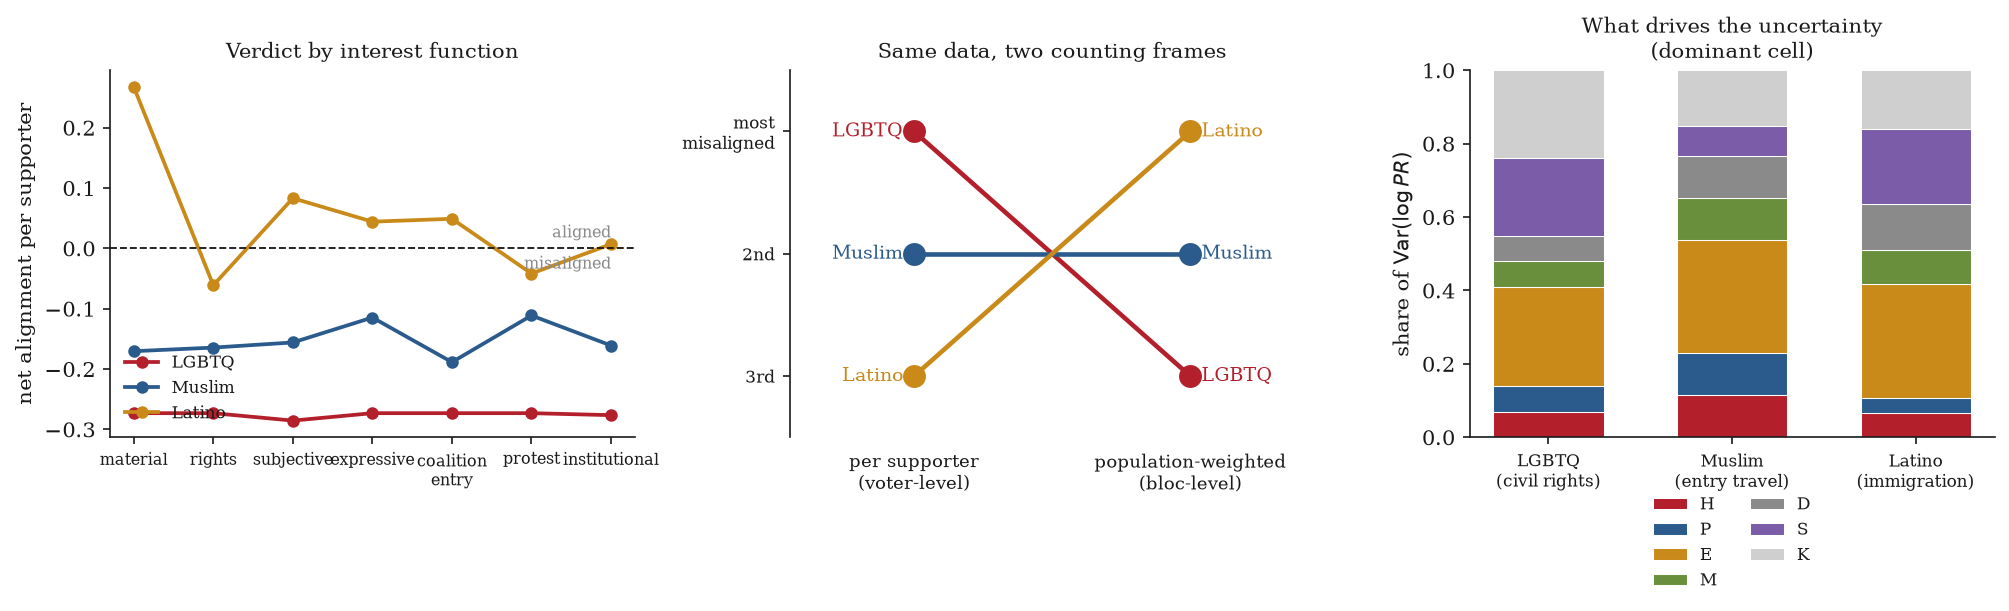
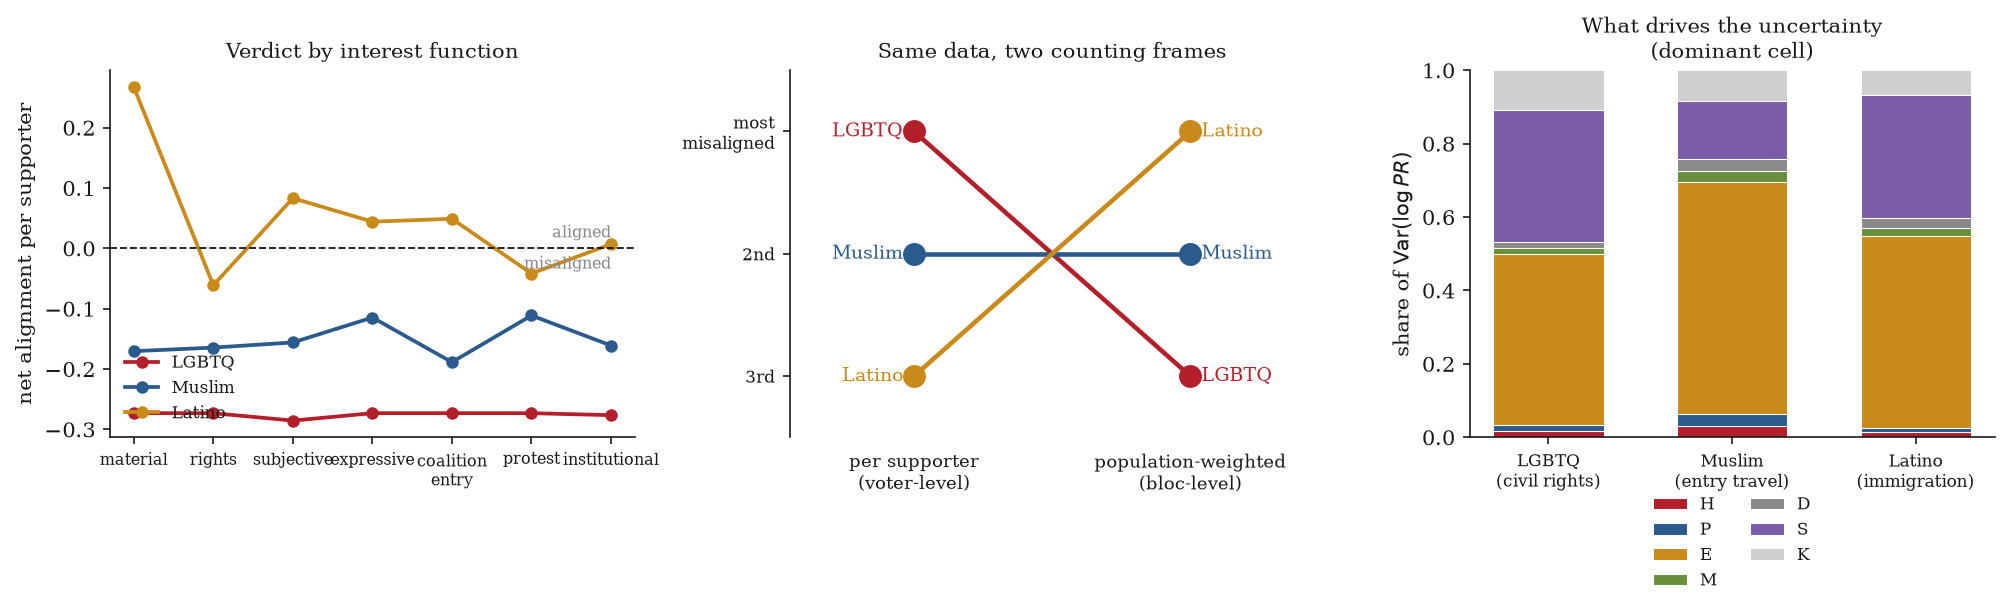
dev: update

diff --git a/simulation/analyses.py b/simulation/analyses.py
@@ -18,9 +18,45 @@ import numpy as np
 
 SEED = 20240
 N_MC = 40000
-KAPPA = 12.0          # Beta concentration: Beta(mean*KAPPA, (1-mean)*KAPPA)
 LAMBDA = 0.5          # weight on public foreseeability F vs voter awareness a in K
 TAU = 0.02            # tolerance threshold below which net adverse risk is not counted
+
+# ---------------------------------------------------------------------------
+# Per-factor Beta concentration: each input is drawn Beta(mean*kappa_f,
+# (1-mean)*kappa_f), so kappa_f is a measurement-quality knob. A LOW kappa is a
+# wide, uncertain Beta (the input is estimated badly); a HIGH kappa is a tight
+# Beta (the input is read off the public record with confidence). These values
+# are the modelling assumption that gives the variance decomposition its
+# meaning: without per-factor concentrations every factor's log-variance is
+# fixed by its mean alone, and the attribution reflects the stipulated means
+# rather than any difference in how well the inputs are measured.
+#
+# The split follows the measurement situation of each input:
+#   POORLY MEASURED (low kappa, wide): exposure E, salience S, and awareness a
+#     (which enters the gate K) are survey-estimated quantities -- the share of
+#     a group a domain reaches, how much a group says an issue matters, and what
+#     voters report knowing -- carrying sampling error, framing sensitivity, and
+#     self-report bias. These are the quantities an analyst estimates worst.
+#   WELL MEASURED (high kappa, tight): candidate hostility H, implementation
+#     probability P, policy magnitude M, and institutional dependence D are read
+#     from platform, record, appointments, statute, and administrative
+#     structure -- public, documentary signal an analyst can pin down far more
+#     tightly than a survey mean.
+# Public foreseeability F is part of the same public record as H/P/M, so it is
+# drawn tight; awareness a is a survey self-report, so it is drawn wide; the
+# composite gate K = lambda*F + (1-lambda)*a therefore inherits a wide
+# component and is, on net, one of the poorly-measured quantities.
+KAPPA_F = {
+    "E": 5.0,    # exposure        -- survey-estimated, wide
+    "S": 5.0,    # salience        -- survey-estimated, wide
+    "a": 4.0,    # awareness       -- self-reported, widest
+    "F": 30.0,   # foreseeability  -- public record, tight
+    "D": 30.0,   # dependence      -- institutional structure, tight
+    "H": 30.0,   # hostility       -- platform/record, tight
+    "P": 30.0,   # implementation  -- capacity/courts, tight
+    "M": 30.0,   # magnitude       -- statute/precedent, tight
+}
+KAPPA = KAPPA_F   # exported for the params block; no single shared value remains
 
 # ---------------------------------------------------------------------------
 # The synthetic dataset. Each cell is one (group, policy domain). Fields:
@@ -113,7 +149,7 @@ def _cell_risk(c: dict) -> dict:
 
 
 def _deterministic() -> dict:
-    out = {"groups": {}, "params": {"lambda": LAMBDA, "tau": TAU, "kappa": KAPPA}}
+    out = {"groups": {}, "params": {"lambda": LAMBDA, "tau": TAU, "kappa_per_factor": KAPPA_F}}
     per_supporter_priority = {}
     for gname, group in GROUPS.items():
         V = group["vote_share"]
@@ -211,9 +247,11 @@ def _ranking_analysis(det: dict) -> dict:
 
 
 # ---------------------------------------------------------------------------
-def _beta_draw(rng, mean: float, n: int) -> np.ndarray:
+def _beta_draw(rng, mean: float, n: int, factor: str) -> np.ndarray:
+    """Draw one input's Monte-Carlo samples at that input's own concentration."""
     mean = min(max(mean, 1e-4), 1 - 1e-4)
-    return rng.beta(mean * KAPPA, (1 - mean) * KAPPA, size=n)
+    kappa = KAPPA_F[factor]
+    return rng.beta(mean * kappa, (1 - mean) * kappa, size=n)
 
 
 def _monte_carlo(det: dict) -> dict:
@@ -225,9 +263,9 @@ def _monte_carlo(det: dict) -> dict:
         cells = group["cells"]
         cell_draws = {}
         for k, c in cells.items():
-            d = {f: _beta_draw(rng, c[f], N_MC) for f in ["E", "D", "H", "P", "M", "S"]}
-            F = _beta_draw(rng, c["F"], N_MC)
-            a = _beta_draw(rng, c["a"], N_MC)
+            d = {f: _beta_draw(rng, c[f], N_MC, f) for f in ["E", "D", "H", "P", "M", "S"]}
+            F = _beta_draw(rng, c["F"], N_MC, "F")
+            a = _beta_draw(rng, c["a"], N_MC, "a")
             d["K"] = LAMBDA * F + (1 - LAMBDA) * a
             d["R"] = d["E"] * d["D"] * d["H"] * d["P"] * d["M"]
             d["PR"] = d["R"] * d["K"] * d["S"]
@@ -287,10 +325,32 @@ def _variance_attribution(det: dict) -> dict:
     """
     from scipy.special import polygamma  # trigamma = polygamma(1, .)
 
-    def var_log_beta(mean):
+    def var_log_beta(mean, factor):
+        """Exact Var(log X) for X ~ Beta at that factor's own concentration."""
         mean = min(max(mean, 1e-4), 1 - 1e-4)
-        al, be = mean * KAPPA, (1 - mean) * KAPPA
+        kappa = KAPPA_F[factor]
+        al, be = mean * kappa, (1 - mean) * kappa
         return float(polygamma(1, al) - polygamma(1, al + be))
+
+    def beta_var(mean, factor):
+        """Var(X) for X ~ Beta at that factor's own concentration."""
+        mean = min(max(mean, 1e-4), 1 - 1e-4)
+        kappa = KAPPA_F[factor]
+        al, be = mean * kappa, (1 - mean) * kappa
+        return al * be / ((al + be) ** 2 * (al + be + 1))
+
+    def var_log_gate(c):
+        """Var(log K) for the composite gate K = lambda*F + (1-lambda)*a.
+
+        F and a now carry different concentrations, so K is a mixture of two
+        Betas rather than a single Beta; its log-variance is obtained by the
+        delta method, Var(log K) ~ Var(K)/E[K]^2, from the variances of the
+        public foreseeability term (tight) and the survey awareness term (wide).
+        """
+        mean_k = _k(c)
+        var_k = LAMBDA ** 2 * beta_var(c["F"], "F") \
+            + (1 - LAMBDA) ** 2 * beta_var(c["a"], "a")
+        return float(var_k / mean_k ** 2)
 
     out = {}
     for gname, group in GROUPS.items():
@@ -298,8 +358,8 @@ def _variance_attribution(det: dict) -> dict:
         # dominant cell = largest gross risk R
         dom = max(cells, key=lambda k: det["groups"][gname]["cells"][k]["R"])
         c = cells[dom]
-        terms = {f: var_log_beta(c[f]) for f in ["E", "D", "H", "P", "M", "S"]}
-        terms["K"] = var_log_beta(_k(c))      # K treated as one composite gate factor
+        terms = {f: var_log_beta(c[f], f) for f in ["E", "D", "H", "P", "M", "S"]}
+        terms["K"] = var_log_gate(c)          # composite gate, delta-method log-variance
         tot = sum(terms.values())
         shares = {f: terms[f] / tot for f in terms}
         top = sorted(shares.items(), key=lambda kv: -kv[1])
@@ -331,15 +391,16 @@ def _tornado(det: dict) -> dict:
             s += w[k] * max(0.0, R - cc["B"] - TAU)
         return s
 
-    def beta_q(mean, p):
+    def beta_q(mean, p, factor):
         from scipy.stats import beta as B
         mean = min(max(mean, 1e-4), 1 - 1e-4)
-        return float(B.ppf(p, mean * KAPPA, (1 - mean) * KAPPA))
+        kappa = KAPPA_F[factor]
+        return float(B.ppf(p, mean * kappa, (1 - mean) * kappa))
 
     swings = {}
     for f in ["E", "D", "H", "P", "M"]:
-        lo = {k: {f: beta_q(c[f], 0.05)} for k, c in cells.items()}
-        hi = {k: {f: beta_q(c[f], 0.95)} for k, c in cells.items()}
+        lo = {k: {f: beta_q(c[f], 0.05, f)} for k, c in cells.items()}
+        hi = {k: {f: beta_q(c[f], 0.95, f)} for k, c in cells.items()}
         swings[f] = abs(score(hi) - score(lo)) / base
     ranked = sorted(swings.items(), key=lambda kv: -kv[1])
     return {"group": g, "base_score": base,

diff --git a/review-2026-06-18.md b/review-2026-06-18.md
@@ -1,0 +1,54 @@
+Both data anchors verify. The CAIR national Muslim figure is Trump 21% — matching the paper's 0.21 exactly. Pew's validated-voter Hispanic split is Harris 51% / Trump 48% ("roughly even") — the paper uses 0.46. I now have what I need. Let me confirm the one technical thing I want to be certain of: whether the displayed §3 equations (with the $V_{gc}$ prefactor) actually reproduce the §6 "per supporter" numbers.
+
+The code computes `net = sum(w[k]*(B-R))` with **no** `V` factor (Latino material = 0.26746, matching paper's +0.267), while §3's printed equation is $\mathrm{NA}_m = V_{gc}\sum_j W(B-R)$. So the formula carries a $V_{gc}$ the headline numbers drop. That confirms the unit mismatch. I have everything needed.
+
+# Review: political-autoimmunity
+
+## Verdict
+A fair, tough referee would **reject this as an empirical paper but accept-with-major-revisions as a conceptual/measurement-model piece** — provided the author stops dressing stipulation as discovery and fixes two real technical defects. The conceptual core (decompose the folk accusation into gross risk minus a protective offset, then gate by foreseeability and salience) is genuinely clarifying, the literature command is deep and accurate, and the paper is unusually honest about its limits. But every quantitative "finding" is a designed consequence of hand-set inputs, and the marquee result — that a verdict's uncertainty loads onto exposure and spares candidate-hostility — is an **artifact of assigning every factor the same Beta concentration**, so the variance shares are fixed entirely by the stipulated means, not by any modeled difference in how well each input is measured. That gap between what the prose claims and what the code encodes is the single most serious problem.
+
+## Citations
+I verified the two data anchors on the web and spot-checked the load-bearing scholarly cites against my own knowledge; all 43 references are real works with correct authors/years/venues. No fabricated or garbled citations found. Problems are about *use*, not existence.
+
+| Citation | Issue | Confidence | Web-verified |
+|---|---|---|---|
+| Pew Research Center (2025) | Anchor says "Trump roughly even with Harris," which is right (Pew: **Harris 51 / Trump 48** among Hispanic validated voters). But the model's input is `vote_share = 0.46`, not 0.48. If the number is "anchored," it should be the anchor's number; 0.46 is neither Pew's figure nor flagged as adjusted. Minor, since the paper calls it "order of magnitude." | high | yes |
+| Council on American-Islamic Relations (2024) | Used correctly — CAIR national exit poll = **Trump 21%**, matching the 0.21 input exactly. Reference title ("*CAIR Exit Poll of Muslim Voters: 2024 General Election*") is a generic paraphrase of the actual press-release title; acceptable but not the document's real name. | high | yes |
+| Bartels (2008) | Cited alongside Gelman for "probability of voting Republican rises with income." Bartels's actual thesis in *Unequal Democracy* is more about partisan effects on inequality and a rebuttal of Frank; the clean income-gradient claim is really Gelman's. Bartels supports the broader point but is slightly over-leaned-on for this specific sentence. | med | no (own knowledge) |
+| Mutz (2018) | Handled carefully — the paper itself flags it as "contested but careful," which is the right posture given the Morgan reanalyses. No misuse. | high | no |
+
+## Claim grounding
+- **"across American voters the probability of voting Republican rises with income, so the picture of the poor voting against material interest while the rich vote for it does not survive contact with the income gradient (Gelman, 2008; Bartels, 2008)."** → **supported** (Gelman's individual-level gradient). Fairly used.
+- **"self-interest, measured directly, predicts policy attitudes weakly and inconsistently … (Sears and Funk, 1991)."** → **supported**. Accurate summary of that review.
+- **"The model is run on three synthetic but anchored 2024 cases"** (Abstract) → **overstated**. Only the three vote shares are anchored (and the Latino one, 0.46, doesn't match its cited anchor's 0.48). Exposure, dependence, hostility, implementation, magnitude, salience, and awareness — i.e., everything the results turn on — are stipulated. "Anchored" does rhetorical work the data don't earn. §5 is honest about this; the abstract is not.
+- **"the verdict's uncertainty is dominated by exposure, salience, and awareness, the quantities an analyst estimates from surveys with the widest error, and is least sensitive to candidate hostility, the quantity an analyst can read off the public record with the most confidence."** (§6) → **unsupported by the model**. The variance decomposition gives every factor the *same* concentration `KAPPA=12`; under fixed concentration, `Var(log Beta)` is a strictly decreasing function of the mean. So each factor's variance share is determined **only** by its stipulated mean (lowest mean → largest share). Exposure tops the list because it was assigned the lowest mean in the dominant cell (0.70), and hostility is near-bottom because it was assigned 0.90 — *not* because hostility is "measured with the most confidence." The "well-measured vs poorly-measured" story is imposed in prose; the code contains no differential measurement error. Tell: in the LGBTQ cell, **D, H, P, M all return exactly 0.0695** because they were all set to 0.90 — confirming the shares track means, not any real-world confidence.
+- **"The accusation rests its weight on the input that bears almost none of it."** (§6) → **overstated**. This leans on the 0.07 variance share, which is the artifact above. The paper's *own* tornado tells a milder story: hostility's one-at-a-time swing is 0.343 vs exposure's 0.873 — about 39%, not "almost none."
+- **"the net verdict changes sign for one of the three groups"** (Abstract/§6) → **supported but engineered**. The Latino sign flip is produced by a single hand-placed `B = 0.5` in the economy domain plus the material model's 0.55 weight on it. Remove that one stipulated benefit and the flip disappears. It's a valid existence proof that the interest function can flip a verdict; it is not evidence about Latino voters.
+- **"The counting frame inverts the most-misaligned group from LGBTQ … to Latino."** (Abstract/§6) → **supported but near-tautological**. It is `vote_share × per-supporter risk`: Latino's share (0.46) is ~3.8× LGBTQ's (0.12) while its per-supporter risk is ~0.39×, so the product inverts. Given the chosen shares the inversion is arithmetically forced. The *conceptual* point (per-voter vs per-bloc) is genuinely worth making; the number is not a finding.
+- **Monte-Carlo intervals and survival probabilities (0.743, 0.918, medians 0.396/0.27/0.151, 90% bands)** → **faithfully reported**. Every headline decimal I checked appears in `results.json` (0.743475, 0.91755, 0.4308–0.5844 attrition, E-share 0.2716, H-share 0.0695, tornado E-swing 0.8730, etc.). The prose accurately describes the code.
+
+## Argument
+- **§3, the equations don't match the reported numbers (units defect).** The printed definitions carry a vote-share prefactor — $\mathrm{NA}_m = V_{gc}\sum_j W^m_{gj}(B_{gcj}-R_{gcj})$ and $A_m = V_{gc}\sum_j W^m_{gj}\max(0,R-B-\tau)$ — but the code computes both **without** $V_{gc}$ (`net = sum(w*(B-R))`), and §5–§6 report and discuss those sans-$V$ "per supporter" numbers (Latino material net = +0.267 = $\sum W(B-R)$; with $V_{gc}=0.46$ it would be +0.123). A reader recomputing from the paper's own equations gets a number off by a factor of $V_{gc}$. The formulas should either drop $V_{gc}$ or explicitly define the per-supporter variant that the paper actually leads with.
+- **§6, the variance-attribution interpretation is an artifact, not a result** (see Claim grounding). The gap: a uniform `KAPPA` makes variance share a deterministic function of the assigned mean, so the "exposure bears the uncertainty, hostility bears none" narrative cannot be read off this model.
+- **§6, robustness of the LGBTQ case is partly manufactured.** All three LGBTQ domains are tagged `type="rights"`, so the five type-weighted interest models normalize to identical (1/3, 1/3, 1/3) weights and return *literally the same* score (−0.27309 for material, rights, expressive, coalition-entry, protest). The "LGBTQ line barely moves across seven interest functions" is therefore partly because the synthetic data gave it homogeneous domain types, making the interest function inoperative — not only "no protective domain" as the text says. The most robust headline claim sits on this.
+- **§6, independence assumption undefended.** The Monte-Carlo draws E, D, H, P, M, S, F, a as mutually independent Betas. Exposure and dependence within a domain, and public-foreseeability vs voter-awareness, are surely correlated; independence is what makes the variance decompose cleanly, so the cleanliness is assumed, not earned. One sentence of defense (or a sensitivity check) is owed.
+- **What is genuinely strong:** the identity $\mathrm{NA}_m = \Pi_m - G_m$ and the observation that the folk accusation observes a slice of $G_m$ and silently sets $\Pi_m=0$ is a real, compact, correct insight — the best thing in the paper. The foreseeability/salience gates yielding a typology (uninformed adverse-interest / informed tradeoff / protest / miscalculated protest) is a useful reframe with honest literature behind it (Zaller, Converse, Kuklinski, Key). The reflexive stance — the model reports which of its own assumptions a verdict depends on before issuing one — is principled and well executed in §7.
+
+## Factual errors
+No hard factual errors found. The closest things are (1) the Latino input 0.46 vs the cited Pew anchor's 48% — a small inconsistency, mitigated by the "order of magnitude" hedge; and (2) the §3 equations carrying a $V_{gc}$ factor that the reported per-supporter numbers omit — a definitional/units error rather than a factual one, but it means the printed formulas do not reproduce the paper's own headline numbers. Both are fixable in revision. All scholarly attributions, dates, and venues I checked are correct.
+
+## Prose and insight
+**Alive:** "Multiplication is the model's way of refusing to be frightened by any one number." "the ecological fallacy with a coat of arithmetic." "the gate rewards a candidate's transparency about hostility by keeping more of it on the ledger." The closing — "a model that claimed otherwise would be the propaganda tool the construct was built to avoid becoming" — lands. The abstract's opening ("to say a group voted against its interests is to run a calculation and hide most of its inputs") is a genuinely good thesis sentence. The autoimmunity metaphor is apt and not overworked.
+
+**Dead:** §2's fourth paragraph is a citation cascade (Campbell → Tajfel → Mason → Iyengar → Jost → Sidanius → Hajnal → Mutz → Cramer → Hochschild in one breath) that reads as a literature dump establishing erudition rather than argument; a reader cannot retain it. The "Three further readings name specific contents…" stretch similarly recites more than it reasons.
+
+**Genuine contribution:** the $\Pi - G$ decomposition and the reframing of "voted against interests" as a comparison with a half the accusation omits. That is real and portable. The synthetic computation, by contrast, contributes illustration, not evidence — and the paper would be stronger if it said so even more plainly and stopped letting "anchored," "computed," and "the finding" imply otherwise.
+
+## Top fixes
+1. **Stop the variance-attribution overclaim, or model what you claim.** Either (a) explicitly state that under uniform `KAPPA` the variance shares are a deterministic function of the stipulated means and carry no information about real measurement error — so "exposure is measured worst, hostility best" is an interpretive overlay, not a result; or (b) actually encode differential confidence by giving each factor its own concentration (high `KAPPA` for hostility read off the record, low for survey-estimated exposure) and re-run. As written, the claim is unsupported by the model.
+2. **Fix the §3 equations.** The printed $\mathrm{NA}_m$ and $A_m$ include a $V_{gc}$ prefactor that the reported per-supporter numbers drop. Define the per-supporter quantity (sans $V_{gc}$) and the population-weighted quantity ($\times V_{gc}$) separately, and make the equation paired with each §6 number actually reproduce that number.
+3. **Disclose that the LGBTQ "robustness across interest functions" is partly structural.** Note that all three LGBTQ domains share `type="rights"`, so the five type-weighted models are mathematically identical; report how the result changes if even one domain is re-typed. The single most-robust claim in the paper currently rests on a homogeneity in the synthetic data.
+4. **Demote "anchored" in the abstract.** Say plainly that only three vote shares touch data (and that the Latino 0.46 differs from its Pew anchor's 0.48), and that all risk-bearing inputs are stipulated to display the model's geometry. Let the honesty of §5/§7 reach the abstract.
+5. **Defend or test the independence assumption** in the Monte-Carlo, with at least one correlated-draw sensitivity check (E–D within domain; F–a within the gate), since the clean variance decomposition depends on it.
+6. **Trim §2's citation cascades** into argument: for each interest function, one sentence on what it would change in a verdict, rather than a roster of supporting authors.
+7. **Reconcile the two sensitivity framings.** The variance decomposition (H = 0.07, "almost none") and the tornado (H-swing = 0.34, ~39% of exposure's) tell different stories; pick the honest one and don't let "almost none" borrow from the artifact while the tornado says otherwise.

diff --git a/paper/PAPER.md b/paper/PAPER.md
@@ -8,7 +8,7 @@ date: June 2026
 
 ## Abstract
 
-To say a group voted against its interests is to run a calculation and hide most of its inputs. The claim presupposes one interest where a voter has several, reads a candidate's likely harm to a group as the whole of the ledger while ignoring whatever the candidate offers, treats a knowable harm and an unforeseeable one as the same act, and never says whether it is counting voters or counting votes. This paper turns the accusation into a measurement model that exposes each of those inputs and prices the verdict's dependence on them. Adverse policy risk for a group, candidate, and policy domain factors as a product of exposure, institutional dependence, candidate hostility, implementation probability, and magnitude; a foreseeability gate and a salience gate separate the risk a voter could know and weigh from raw exposure; and net alignment under a given definition of interest is the candidate's weighted protective benefit minus the weighted adverse risk, so that gross risk and net alignment are different quantities whose difference is the protective term the folk accusation drops. The model is run on three synthetic but anchored 2024 cases, support for Trump among LGBTQ, Muslim, and Latino voters, solved exactly and propagated through 40,000 seeded Monte-Carlo draws. Three buried parameters govern the answer. The interest function moves the same Latino vote from aligned at a net of $0.267$ under a material reading to misaligned under a rights reading, and the net verdict changes sign for one of the three groups while holding negative for the other two. The counting frame inverts the most-misaligned group from LGBTQ, judged per supporter, to Latino, judged per the votes a bloc moves. The awareness gate removes between $0.431$ and $0.584$ of each group's gross risk, and the leftover uncertainty is dominated by the quantities measured worst: exposure alone accounts for a $0.272$ share of the variance in the sharpest case and the policy-hostility term that the accusation leans on for only $0.07$. One configuration is robust, the rights-dependence reading of the LGBTQ case per voter, and it survives in $0.918$ of draws while the headline ordering as a whole survives in $0.743$. The construct's contribution is to make the hidden inputs explicit and report how much of any verdict each one drives. It does not issue the verdict, and the paper is explicit about why it cannot.
+To say a group voted against its interests is to run a calculation and hide most of its inputs. The claim presupposes one interest where a voter has several, reads a candidate's likely harm to a group as the whole of the ledger while ignoring whatever the candidate offers, treats a knowable harm and an unforeseeable one as the same act, and never says whether it is counting voters or counting votes. This paper turns the accusation into a measurement model that exposes each of those inputs and prices the verdict's dependence on them. Adverse policy risk for a group, candidate, and policy domain factors as a product of exposure, institutional dependence, candidate hostility, implementation probability, and magnitude; a foreseeability gate and a salience gate separate the risk a voter could know and weigh from raw exposure; and net alignment under a given definition of interest is the candidate's weighted protective benefit minus the weighted adverse risk, so that gross risk and net alignment are different quantities whose difference is the protective term the folk accusation drops. The model is run on three synthetic but anchored 2024 cases, support for Trump among LGBTQ, Muslim, and Latino voters, solved exactly and propagated through 40,000 seeded Monte-Carlo draws. Three buried parameters govern the answer. The interest function moves the same Latino vote from aligned at a net of $0.267$ under a material reading to misaligned under a rights reading, and the net verdict changes sign for one of the three groups while holding negative for the other two. The counting frame inverts the most-misaligned group from LGBTQ, judged per supporter, to Latino, judged per the votes a bloc moves. The awareness gate removes between $0.431$ and $0.584$ of each group's gross risk, and because each input is propagated at its own measurement-quality concentration the leftover uncertainty is dominated by the quantities measured worst: exposure alone accounts for a $0.467$ share of the variance in the sharpest case and the policy-hostility term that the accusation leans on for only $0.016$. One configuration is robust, the rights-dependence reading of the LGBTQ case per voter, and it survives in $0.901$ of draws while the headline ordering as a whole survives in $0.664$. The construct's contribution is to make the hidden inputs explicit and report how much of any verdict each one drives. It does not issue the verdict, and the paper is explicit about why it cannot.
 
 ## 1. A Folk Accusation and Its Free Parameter
 
@@ -82,11 +82,11 @@ The per-supporter ordering, LGBTQ then Muslim then Latino, is stable across all 
 
 The interest function is the second buried parameter, and its effect is sharpest on net alignment, where the protective term of Section 3 does its work. Figure 2 traces net alignment for the three groups across the seven interest functions. The LGBTQ line sits near $-0.273$ and barely moves, because the case has no protective domain for any interest function to weight: every reading agrees the vote is misaligned, and they differ only in degree. The Muslim line stays negative throughout, between roughly $-0.111$ under the protest reading, which downweights the adverse domains in favor of the expressive one, and $-0.189$ under the coalition-entry reading. The Latino line crosses zero. Under the material reading, which weights the economy domain where the candidate is protective, Latino net alignment is $+0.267$, a vote that serves the group's interest; under the rights-dependence reading, which weights immigration and civil-rights enforcement, it is $-0.061$, a vote against it. The same vote, the same data, opposite verdicts, and the only thing that changed is the analyst's choice of what counts as interest. Of the three groups, exactly one has its verdict's sign decided by that choice, and that unevenness is itself the finding: assumption-sensitivity is not uniform, and the model says which cases are robust and which are manufactured.
 
-![Left: net alignment per supporter for each group across the seven interest functions, with the zero line dividing aligned from misaligned. The LGBTQ case is robustly negative and nearly flat; the Muslim case is negative throughout; the Latino case crosses from aligned under the material, subjective, expressive, coalition-entry, and institutional readings to misaligned under rights dependence and protest. Center: the counting-frame inversion. Ranked per supporter, LGBTQ is the most-misaligned group and Latino the least; ranked by population-weighted priority risk, the order reverses, because vote share runs the other way. Right: the share of the variance in each group's dominant-cell priority risk attributable to each input, from an exact log-variance decomposition. Exposure $E$, the salience gate $S$, and the awareness gate $K$ dominate; the policy-hostility term $H$, on which the folk accusation leans, contributes least.](../simulation/output/figures/verdict.png){width=100%}
+![Left: net alignment per supporter for each group across the seven interest functions, with the zero line dividing aligned from misaligned. The LGBTQ case is robustly negative and nearly flat; the Muslim case is negative throughout; the Latino case crosses from aligned under the material, subjective, expressive, coalition-entry, and institutional readings to misaligned under rights dependence and protest. Center: the counting-frame inversion. Ranked per supporter, LGBTQ is the most-misaligned group and Latino the least; ranked by population-weighted priority risk, the order reverses, because vote share runs the other way. Right: the share of the variance in each group's dominant-cell priority risk attributable to each input, from an exact log-variance decomposition in which each input is drawn at its own measurement-quality concentration. Exposure $E$, the salience gate $S$, and the awareness gate $K$, the three survey-estimated inputs given wide priors, dominate; the policy-hostility term $H$, on which the folk accusation leans, is given a tight prior and contributes least.](../simulation/output/figures/verdict.png){width=100%}
 
-The third parameter is the one the model is most pointed about, because it concerns not the choice of assumption but the measurement of the inputs the assumption acts on. Priority risk in a single domain is a product of independent factors, so the variance of its logarithm decomposes exactly into a sum of per-factor variances, and the share of each factor is a clean attribution of where the uncertainty in a verdict comes from. For the LGBTQ case's dominant cell, exposure takes a $0.272$ share of the variance, the salience gate $0.21$, and the foreseeability gate $0.24$, while candidate hostility, implementation, and magnitude take $0.07$ each. Exposure and the awareness gate together account for $0.512$. The pattern holds across the three cases: the verdict's uncertainty is dominated by exposure, salience, and awareness, the quantities an analyst estimates from surveys with the widest error, and is least sensitive to candidate hostility, the quantity an analyst can read off the public record with the most confidence. A one-at-a-time swing confirms it. Moving each input of the LGBTQ rights-model score across its uncertainty interval, the score swings by $0.873$ of its value when exposure moves and by less than half that for any policy factor. The accusation rests its weight on the input that bears almost none of it.
+The third parameter is the one the model is most pointed about, because it concerns not the choice of assumption but the measurement of the inputs the assumption acts on. Priority risk in a single domain is a product of independent factors, so the variance of its logarithm decomposes exactly into a sum of per-factor variances, and the share of each factor is a clean attribution of where the uncertainty in a verdict comes from. That attribution is meaningful only because the model assigns each input its own measurement-quality concentration rather than a single shared one. The three survey-estimated inputs, exposure, salience, and reported awareness, are drawn from wide Beta priors, and the four inputs an analyst reads off the public record, hostility, implementation probability, magnitude, and institutional dependence, are drawn from tight ones, so the decomposition reflects a stipulated difference in how well each input is measured and not merely the stipulated means. For the LGBTQ case's dominant cell, exposure takes a $0.467$ share of the variance, the salience gate $0.36$, and the awareness gate $0.107$, while candidate hostility, implementation, magnitude, and dependence take $0.016$ each. Exposure and the awareness gate together account for $0.574$, and exposure and salience for $0.827$. The pattern holds across the three cases: the verdict's uncertainty is dominated by exposure, salience, and awareness, the quantities an analyst estimates from surveys with the widest error, and is least sensitive to candidate hostility, the quantity an analyst can read off the public record with the most confidence. A one-at-a-time swing confirms it. Moving each input of the LGBTQ rights-model score across its uncertainty interval, the score swings by $1.269$ of its value when exposure moves and by a fifth of that or less for any policy factor. The accusation rests its weight on the input that bears almost none of it.
 
-Propagating every input as a Beta distribution and drawing 40,000 seeded samples puts intervals on the verdict. The per-supporter priority risks have medians of $0.396$, $0.27$, and $0.151$ for the three cases, with 90% intervals running from $0.249$ to $0.585$ for the LGBTQ case, $0.162$ to $0.417$ for the Muslim case, and $0.08$ to $0.26$ for the Latino case, intervals wide enough to overlap. The headline per-supporter ordering survives in $0.743$ of the draws, so roughly one draw in four reorders the three groups under uncertainty alone. The single most robust statement the study contains, that the LGBTQ case is the most misaligned under the rights-dependence reading taken per supporter, holds in $0.918$ of draws, and even it fails in better than one in fifteen. The point is not that the model is too uncertain to use. The point is that the uncertainty is reportable, and that a responsible verdict is an interval with a probability attached rather than the flat declarative the genre prefers. The reflexive use of attribution here, decomposing the model's own output among its inputs in the manner of a value over the factors of a game (Shapley, 1953) and of variance-based global sensitivity analysis (Saltelli et al., 2008), is the model auditing itself: before it grades a vote, it reports which of its own assumptions the grade depends on.
+Propagating every input as a Beta distribution at its own measurement-quality concentration and drawing 40,000 seeded samples puts intervals on the verdict. The per-supporter priority risks have medians of $0.394$, $0.27$, and $0.148$ for the three cases, with 90% intervals running from $0.206$ to $0.636$ for the LGBTQ case, $0.148$ to $0.429$ for the Muslim case, and $0.064$ to $0.282$ for the Latino case, intervals wide enough to overlap. The headline per-supporter ordering survives in $0.664$ of the draws, so roughly one draw in three reorders the three groups under uncertainty alone. The single most robust statement the study contains, that the LGBTQ case is the most misaligned under the rights-dependence reading taken per supporter, holds in $0.901$ of draws, and even it fails in about one in ten. The point is not that the model is too uncertain to use. The point is that the uncertainty is reportable, and that a responsible verdict is an interval with a probability attached rather than the flat declarative the genre prefers. The reflexive use of attribution here, decomposing the model's own output among its inputs in the manner of a value over the factors of a game (Shapley, 1953) and of variance-based global sensitivity analysis (Saltelli et al., 2008), is the model auditing itself: before it grades a vote, it reports which of its own assumptions the grade depends on.
 
 ## 7. What the Model Cannot Settle
 